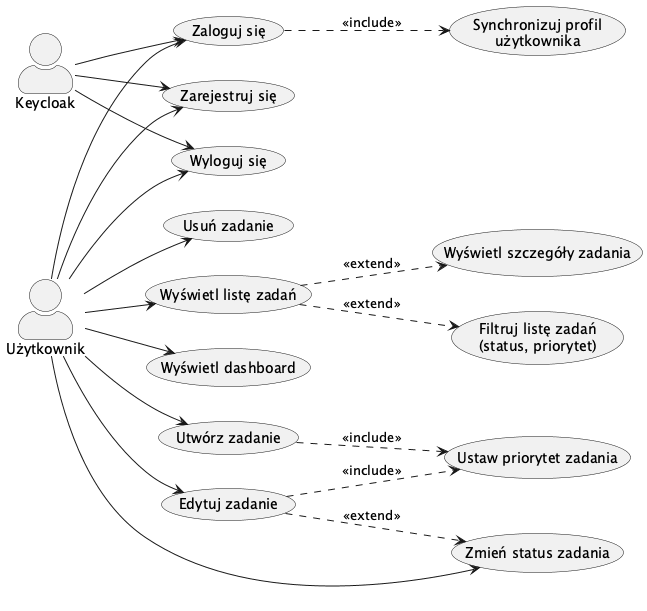
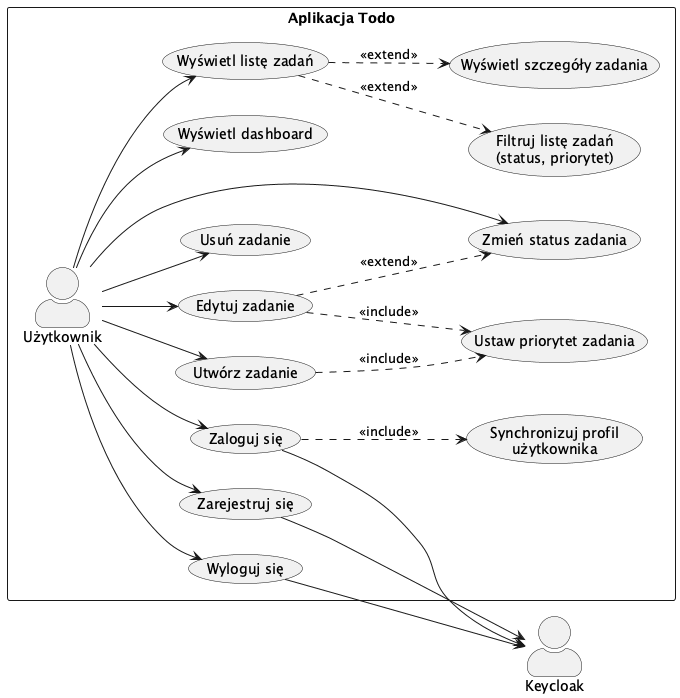
docs: update milestone

diff --git a/doc/milestone_02.tex b/doc/milestone_02.tex
@@ -66,15 +66,9 @@
 % ============================================================
 \section{Wprowadzenie}
 
-Niniejszy dokument stanowi raport z~drugiego kamienia milowego projektu \emph{Aplikacja do zarządzania zadaniami}. Etap ten obejmuje:
-\begin{itemize}
-  \item implementację podstawowych funkcjonalności systemu (REST API, persystencja, autoryzacja, interfejs użytkownika),
-  \item przygotowanie diagramu sekwencji dla wybranego scenariusza,
-  \item przygotowanie diagramu aktywności dla wybranego procesu systemowego,
-  \item aktualizację wcześniej wykonanych diagramów (przypadków użycia, klas, komponentów oraz warstw) zgodnie z~rzeczywistą implementacją.
-\end{itemize}
+Niniejszy dokument jest \textbf{uzupełnieniem} raportu z~kamienia milowego~I i~koncentruje się wyłącznie na elementach wymaganych w~drugim etapie: stanie implementacji, diagramie sekwencji, diagramie aktywności oraz aktualizacjach wcześniej przygotowanych diagramów. Pozostałe sekcje (cel i~zakres systemu, aktorzy, wymagania funkcjonalne i~niefunkcjonalne, słownik pojęć, pełen stos technologiczny) nie są tu powtarzane -- pozostają one w~dokumencie KM~I.
 
-W~stosunku do pierwszego kamienia milowego nastąpiła istotna zmiana stosu technologicznego po stronie backendu -- początkowo planowany Spring Boot (Java) został zastąpiony przez \textbf{Go} z~routerem \texttt{chi} oraz generatorem kodu \texttt{sqlc}. Decyzja była motywowana chęcią wypróbowania języka Go w~praktyce.
+W~stosunku do KM~I nastąpiła jedna istotna zmiana stosu technologicznego: zaplanowany Spring Boot (Java) po stronie backendu został zastąpiony przez \textbf{Go} (router \texttt{chi}, generator \texttt{sqlc}). Decyzja była motywowana chęcią wypróbowania języka Go w~praktyce. Pozostałe elementy stosu (frontend React, Keycloak, PostgreSQL, Docker) pozostały bez zmian.
 
 % ============================================================
 % 2. STAN IMPLEMENTACJI
@@ -89,18 +83,15 @@ Projekt zorganizowany jest jako monorepo zawierające dwie aplikacje:
 \end{itemize}
 oraz konfigurację infrastruktury (\texttt{docker-compose.yml}, \texttt{docker/keycloak/realm.json}, \texttt{flake.nix}).
 
-\subsection{Funkcjonalności zaimplementowane}
+\subsection{Szczegóły implementacyjne}
 
+Poniżej zebrano elementy implementacyjne uzupełniające wymagania funkcjonalne z~KM~I:
 \begin{itemize}
-  \item \textbf{Uwierzytelnianie i~autoryzacja} -- middleware HTTP weryfikujący tokeny JWT przy użyciu kluczy publicznych pobieranych z~serwisu Keycloak (JWKS). Pierwsze żądanie nowego użytkownika powoduje automatyczną synchronizację profilu (utworzenie wpisu w~tabeli \texttt{users} na podstawie pól \texttt{sub}, \texttt{name}, \texttt{email} z~tokenu).
-  \item \textbf{Zarządzanie zadaniami (CRUD)} -- pełen zestaw operacji \texttt{POST}, \texttt{GET}, \texttt{PUT}, \texttt{DELETE} na zasobie zadań, zagnieżdżonym pod identyfikatorem użytkownika.
-  \item \textbf{Filtrowanie listy zadań} -- parametry zapytania \texttt{status} oraz \texttt{priority} są walidowane i~przekazywane do dedykowanych zapytań SQL.
-  \item \textbf{Dashboard} -- agregujący endpoint zliczający zadania zgrupowane po statusie (\texttt{todo}, \texttt{in\_progress}, \texttt{done}) oraz całkowitą liczbę zadań.
-  \item \textbf{Walidacja danych wejściowych} -- DTO posiadają metody \texttt{Validate()} sprawdzające obecność tytułu, dopuszczalne wartości statusu i~priorytetu oraz format daty (\texttt{YYYY-MM-DD}).
-  \item \textbf{Dokumentacja API} -- automatycznie generowana specyfikacja OpenAPI / Swagger UI dostępna pod ścieżką \texttt{/swagger}, z~konfiguracją OAuth2/PKCE wskazującą na realm Keycloak.
-  \item \textbf{Health check} -- endpoint \texttt{/health} weryfikujący dostępność bazy danych.
-  \item \textbf{Frontend} -- responsywny interfejs zbudowany w~React 19, z~Redux Toolkit (\texttt{createEntityAdapter}, thunki), komponentami z~biblioteki shadcn/ui i~stylowaniem Tailwind CSS v4. Strona \texttt{TasksPage} prezentuje statystyki, listę zadań oraz dialog tworzenia.
-  \item \textbf{Konteneryzacja} -- \texttt{docker-compose.yml} uruchamia PostgreSQL (osobne instancje dla aplikacji i~Keycloaka), Keycloak (z~importem realmu) oraz panel Adminer.
+  \item \textbf{AuthMiddleware (chi)} -- weryfikuje JWT w~oparciu o~klucze publiczne pobierane z~JWKS Keycloaka; przy pierwszym żądaniu nowego użytkownika automatycznie tworzy wpis w~tabeli \texttt{users} na podstawie pól \texttt{sub}, \texttt{name}, \texttt{email} z~tokenu.
+  \item \textbf{Walidacja DTO} -- metody \texttt{Validate()} na strukturach żądania kontrolują obecność tytułu, dopuszczalne wartości statusu/priorytetu oraz format daty (\texttt{YYYY-MM-DD}).
+  \item \textbf{Generowane zapytania (sqlc)} -- wszystkie operacje na bazie korzystają ze statycznie typowanych funkcji wygenerowanych z~plików \texttt{queries/*.sql}; agregacja dashboardu wykonywana jest jednym zapytaniem \texttt{GROUP BY status}.
+  \item \textbf{Swagger UI} -- automatycznie generowana specyfikacja OpenAPI dostępna pod \texttt{/swagger}, z~konfiguracją OAuth2/PKCE wskazującą na realm Keycloak.
+  \item \textbf{Frontend (Redux Toolkit)} -- stan zadań trzymany w~slice z~\texttt{createEntityAdapter}, operacje wykonywane przez thunki (\texttt{fetchTasks}, \texttt{createTask}, \texttt{deleteTask}).
 \end{itemize}
 
 \subsection{Lista endpointów REST}
@@ -129,29 +120,14 @@ GET    & /users/\{userId\}/dashboard          & Statystyki zadań użytkownika &
 Migracje (\texttt{goose}) tworzą tabele \texttt{users} oraz \texttt{tasks}, a~także typy wyliczeniowe \texttt{task\_status} (\texttt{todo}, \texttt{in\_progress}, \texttt{done}) i~\texttt{task\_priority} (\texttt{low}, \texttt{medium}, \texttt{high}). Tabela \texttt{tasks} posiada klucz obcy \texttt{user\_id} z~kaskadowym usuwaniem oraz znaczniki czasowe \texttt{created\_at}, \texttt{updated\_at}.
 
 % ============================================================
-% 3. STOS TECHNOLOGICZNY (AKTUALIZACJA)
-% ============================================================
-\section{Stos technologiczny -- aktualizacja}
-
-\begin{itemize}
-  \item \textbf{Frontend:} React 19, TypeScript, Vite 8, Tailwind CSS v4, shadcn/ui, React Router v7, Redux Toolkit, react-redux.
-  \item \textbf{Backend:} Go (chi router, sqlc, goose, slog, swaggo).
-  \item \textbf{Baza danych:} PostgreSQL 16.
-  \item \textbf{Uwierzytelnianie:} Keycloak 26.2 (OAuth2 / OpenID Connect, PKCE, JWKS).
-  \item \textbf{Konteneryzacja:} Docker, Docker Compose.
-  \item \textbf{Środowisko deweloperskie:} Nix flake (\texttt{flake.nix}) oraz \texttt{Taskfile.yml}.
-  \item \textbf{Kontrola wersji:} Git.
-\end{itemize}
-
-% ============================================================
-% 4. ZAKTUALIZOWANE DIAGRAMY Z KAMIENIA I
+% 3. ZAKTUALIZOWANE DIAGRAMY Z KAMIENIA I
 % ============================================================
 \section{Zaktualizowane diagramy z~kamienia I}
 
 Wszystkie diagramy zostały dostosowane do rzeczywistej implementacji.
 
 \subsection{Diagram przypadków użycia}
-W~stosunku do wersji z~kamienia I dodany został przypadek \emph{Synchronizuj profil użytkownika}, włączany przez przypadek \emph{Zaloguj się} -- odpowiada on faktycznemu mechanizmowi tworzenia rekordu w~tabeli \texttt{users} przy pierwszym żądaniu autoryzowanym.
+Diagram został otoczony granicą systemu \emph{Aplikacja Todo}. \emph{Użytkownik} -- jako bezpośredni odbiorca aplikacji -- został umieszczony wewnątrz granicy, natomiast \emph{Keycloak} jako zewnętrzny dostawca uwierzytelniania pozostaje poza nią. Dodano przypadek \emph{Synchronizuj profil użytkownika} (\texttt{<<include>>} w~\emph{Zaloguj się}) odpowiadający faktycznemu mechanizmowi tworzenia rekordu w~tabeli \texttt{users} przy pierwszym żądaniu autoryzowanym.
 
 \begin{figure}[H]
   \centering